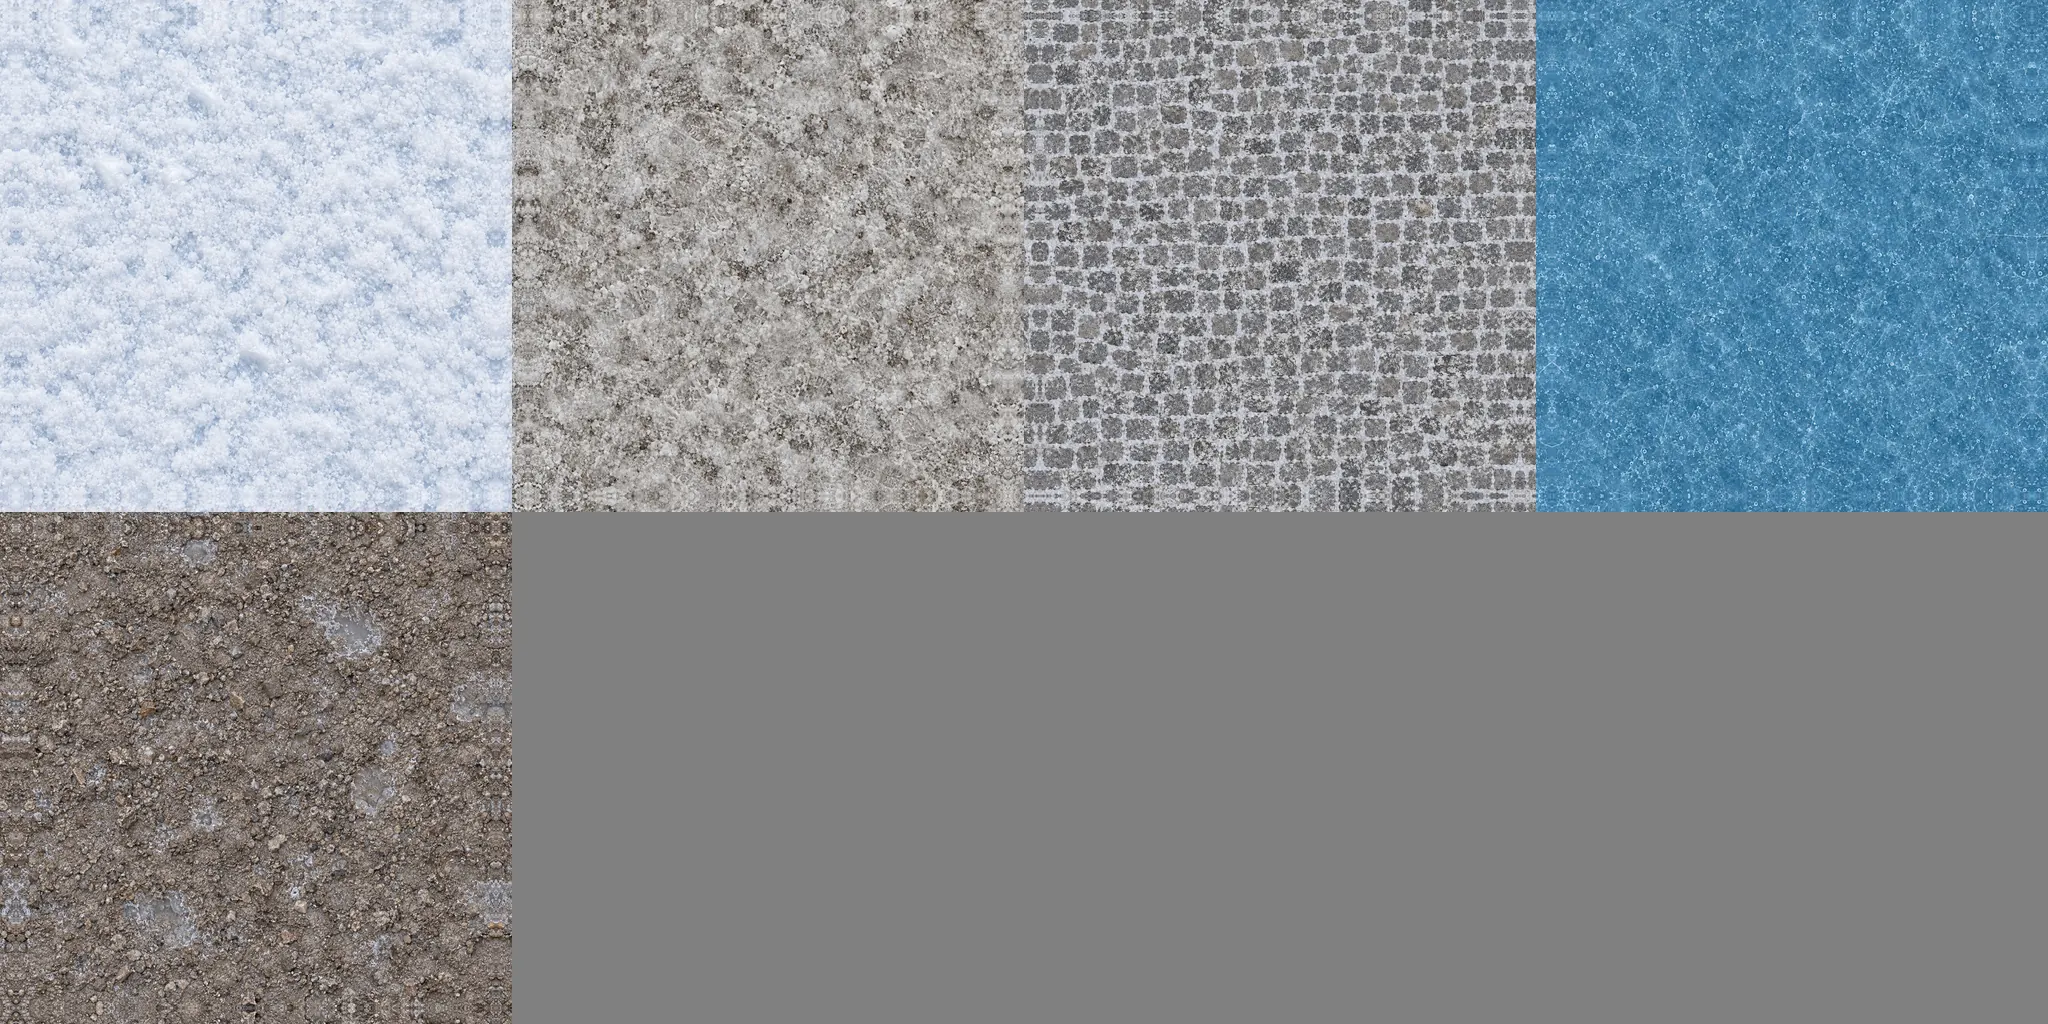
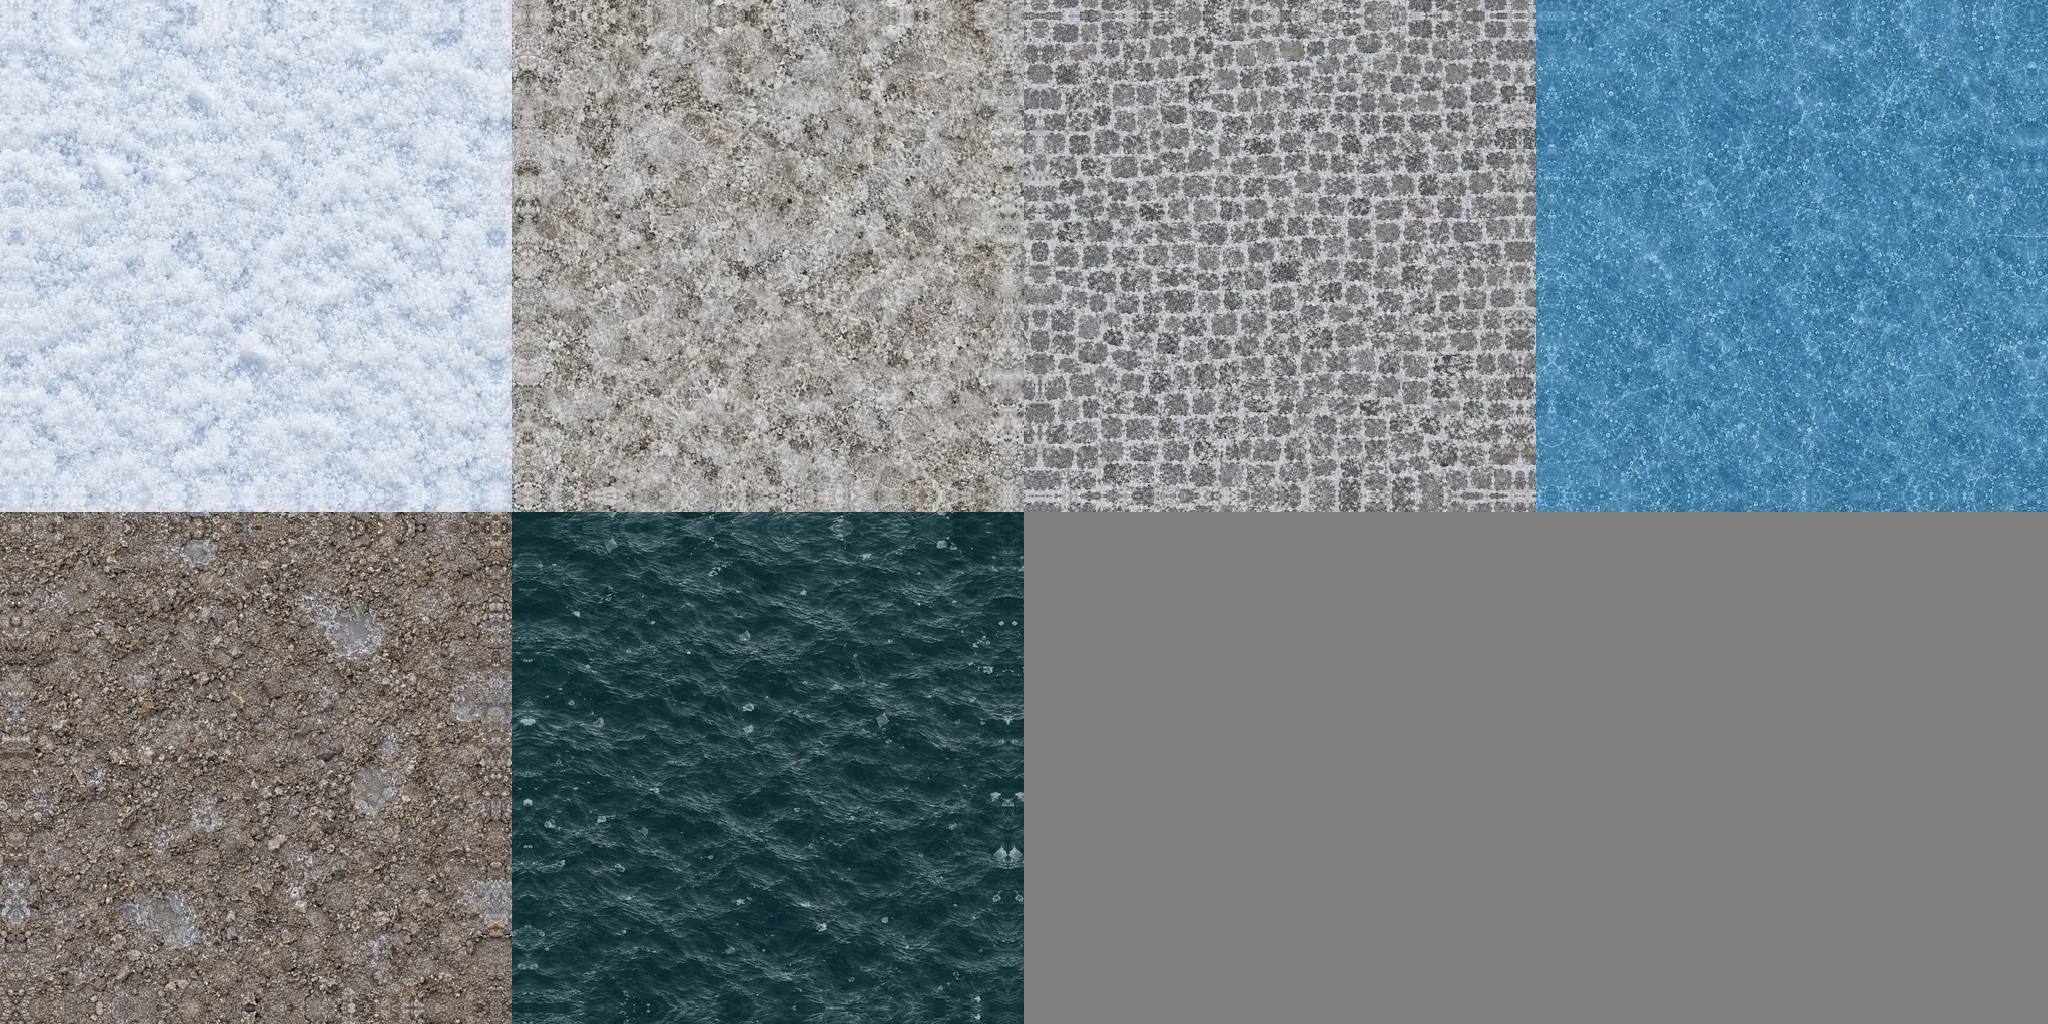
Painted winter water (ChatGPT tile in the ground atlas) with a ragged ice shore, no striped rim
The relief shader paints the water with the new agua slot of the albedo atlas instead of the flat palette blue,
pushes the shore with noise (ice ledge, wet seam) and the layer stops stroking the rim, foam ring and glint
diamonds over it. Card NEW-20261022-ORQ-agua-realista.

Changed region(s): [[0.25, 0.5, 0.5, 1.0]]

diff --git a/src/client/render/city/relevo/shader.ts b/src/client/render/city/relevo/shader.ts
@@ -25,20 +25,32 @@ const vec3=(c:number)=>`vec3(${[(c>>16)&255,(c>>8)&255,c&255].map(v=>(v/255).toF
  * tint (0: only its light and shade, 1: its full colour). The palette keeps the colour; the photo brings the detail.
  * Ice is the most saturated photo: its tint dominates (D-038 review of the delivery).
  */
-export const ALBEDO_CHROMA={neve:.5,'neve-pisada':.7,calcada:.6,gelo:.2,terra:.7} as const;
+export const ALBEDO_CHROMA={neve:.5,'neve-pisada':.7,calcada:.6,gelo:.2,terra:.7,agua:1} as const;
 /**
  * World units one photo spans (its mirrored pair twice that). Larger than life on purpose: at the game's camera a real
  * sett (~28 in a photo of ~2.8 m) is ~4 px and reads as grain; the paving and the ice are drawn ~3× life size.
  */
-export const ALBEDO_SPAN_UNITS={neve:4.4,'neve-pisada':4.4,calcada:6.6,gelo:6.6,terra:4.4} as const;
+export const ALBEDO_SPAN_UNITS={neve:4.4,'neve-pisada':4.4,calcada:6.6,gelo:6.6,terra:4.4,agua:6.6} as const;
 /** How strongly the photo's detail shows over the palette tone (0 none .. 1 all): the snows stay quiet under the figures. */
-export const ALBEDO_STRENGTH={neve:.55,'neve-pisada':.7,calcada:.9,gelo:.6,terra:.8} as const;
+export const ALBEDO_STRENGTH={neve:.55,'neve-pisada':.7,calcada:.9,gelo:.6,terra:.8,agua:1} as const;
 /** The albedo's detail never takes a tone further than this from its palette base (the palette's contrast rule). */
 export const ALBEDO_SPAN={lo:.72,hi:1.22} as const;
 const slot=(name:typeof ALBEDO_SLOTS[number])=>ALBEDO_SLOTS.indexOf(name).toFixed(1);
 const mean=(name:typeof ALBEDO_SLOTS[number])=>`vec3(${ALBEDO_MEANS[ALBEDO_SLOTS.indexOf(name)].map(v=>v.toFixed(4)).join(',')})`;
 const albedo=(name:typeof ALBEDO_SLOTS[number])=>
   `albedoDetail(${slot(name)},w,${mean(name)},${ALBEDO_CHROMA[name].toFixed(2)},${(1/ALBEDO_SPAN_UNITS[name]).toFixed(4)},${ALBEDO_STRENGTH[name].toFixed(2)})`;
+
+/**
+ * Water with the atlas (card NEW-20261022-ORQ-agua-realista): the painted tile in its own colours (chroma and strength
+ * 1, over its own mean instead of a palette tone: the flat palette blue is what read as a vector drawing), lifted a
+ * little so the open water is not a hole next to the snow.
+ */
+export const WATER_ART_LIFT=1.25;
+/**
+ * The shore (cover G, bilinear: 0.5 on the cell edge) is pushed in and out by noise, so the water's edge is ragged and
+ * not the cell grid: open water from WATER_EDGE.open, a ledge of shore ice from WATER_EDGE.shelf (snow side).
+ */
+export const WATER_EDGE={wobble:.34,shelf:.30,open:.47} as const;
 
 /** Coarse ray steps over the chunk's own height range; 7 bisections refine the hit below 0.1 px. */
 export const RELIEF_RAY_STEPS=48;
@@ -85,7 +97,7 @@ const vec3 SNOW=${vec3(CITY_PALETTE.neve)},SNOW_SUN=${vec3(MATERIALS['neve-tampa
 const vec3 PACKED=${vec3(CITY_PALETTE['neve-pisada'])},PACKED_DETAIL=${vec3(CITY_PALETTE['neve-pisada-detalhe'])};
 const vec3 COBBLE=${vec3(CITY_PALETTE.calcada)},COBBLE_JOINT=${vec3(CITY_PALETTE['calcada-junta'])};
 const vec3 ICE=${vec3(CITY_PALETTE.gelo)},ICE_DETAIL=${vec3(CITY_PALETTE['gelo-detalhe'])},ICE_GLINT=${vec3(CITY_PALETTE['gelo-brilho'])};
-const vec3 WATER=${vec3(CITY_PALETTE.agua)},WATER_SHALLOW=${vec3(CITY_PALETTE['agua-raso'])};
+const vec3 WATER=${vec3(CITY_PALETTE.agua)},WATER_SHALLOW=${vec3(CITY_PALETTE['agua-raso'])},WATER_ART=${mean('agua')}*${WATER_ART_LIFT.toFixed(2)};
 const vec3 RUBBLE=${vec3(CITY_PALETTE['entulho-chao'])},RUBBLE_DETAIL=${vec3(CITY_PALETTE['entulho-chao-detalhe'])};
 const vec3 CLIFF_LIGHT=${vec3(CITY_PALETTE['penhasco-clara'])},CLIFF_DARK=${vec3(CITY_PALETTE['penhasco-escura'])},CLIFF_CAP=${vec3(CITY_PALETTE['penhasco-tampa'])};
 const vec3 ROCK_SUN=${vec3(MATERIALS.pedra.luz)},ROCK=${vec3(MATERIALS.pedra.clara)},ROCK_SHADE=${vec3(MATERIALS.pedra.escura)};
@@ -234,9 +246,19 @@ void main(){
  color=mix(color,mix(CLIFF_CAP,SNOW_SUN,0.5),cliff*(1.0-flank)*0.5);
  color=mix(color,cliffRock,flank*(1.0-smoothstep(0.7,0.85,fine+grain*0.3)*0.5));
 
- // Water (fountain, lake): deep blue, shallow at its edge. The layer's decor still draws its rim and glints.
- vec3 water=mix(WATER,WATER_SHALLOW,1.0-smoothstep(0.55,0.95,cv.g));
- color=mix(color,water,smoothstep(0.42,0.52,cv.g));
+ // Water (fountain, lake): the shore wobbles with the noise, so the edge is ragged and not the cell grid. Without the
+ // atlas: deep blue, shallow at its edge; with it, the painted water, a touch lighter and greener in the shallows.
+ float wm=cv.g+(fbm(w*0.9+vec2(5.1,1.7))-0.5)*${WATER_EDGE.wobble.toFixed(2)}+(fine-0.5)*0.05;
+ float shallow=1.0-smoothstep(${WATER_EDGE.open.toFixed(2)},0.85,wm);
+ vec3 water=mix(WATER,WATER_SHALLOW,shallow);
+ vec3 paint=WATER_ART*${albedo('agua')};
+ water=mix(water,mix(paint,mix(paint,ICE,0.35),shallow*0.6),albedoOn);
+ // Shore ice: a thin ledge between the ground and the open water, lit like the snow; a wet dark seam at its lip (the
+ // layer's decor no longer draws the striped rim over the relief, decor.ts groundDecor waterDecor).
+ vec3 shelf=mix(ice,SNOW_SUN,0.5)*mix(1.0,0.9,smoothstep(0.55,0.75,grain));
+ color=mix(color,shelf,smoothstep(${WATER_EDGE.shelf.toFixed(2)},${(WATER_EDGE.shelf+0.06).toFixed(2)},wm));
+ float open=smoothstep(${WATER_EDGE.open.toFixed(2)},${(WATER_EDGE.open+0.05).toFixed(2)},wm);
+ color=mix(color,water*mix(0.8,1.0,smoothstep(${(WATER_EDGE.open+0.02).toFixed(2)},${(WATER_EDGE.open+0.10).toFixed(2)},wm)),open);
 
  gl_FragColor=vec4(clamp(lightGrade(color),0.0,1.0),1.0); // lighting card: warm/cool grade, baked (identity with ?luz=0)
 }`;

diff --git a/tests/client/agua-realista.test.ts b/tests/client/agua-realista.test.ts
@@ -1,0 +1,40 @@
+// Card NEW-20261022-ORQ-agua-realista: the water is the painted tile of the albedo atlas (not the flat palette blue), with
+// a ragged shore of ice drawn by the relief shader, and the layer no longer strokes the striped rim, foam ring and
+// diamond glints over it; the flat ground (no relief: Canvas, ?relevo=0) keeps them.
+import test from 'node:test';
+import assert from 'node:assert/strict';
+import {readFileSync} from 'node:fs';
+import {ALBEDO_MEANS,ALBEDO_SLOTS} from '../../src/client/render/city/relevo/albedo-meta.ts';
+import {WATER_ART_LIFT,WATER_EDGE,reliefShader} from '../../src/client/render/city/relevo/shader.ts';
+import {groundDecor} from '../../src/client/render/city/decor.ts';
+import {groundAt,parseCityAsset} from '../../src/client/render/city/asset.ts';
+import {makeSampleCity} from '../../src/client/render/city/sample.ts';
+
+test('the water slot is a dark, cold blue-green paint (not the bright palette blue) and the shader reads it',()=>{
+  const m=ALBEDO_MEANS[ALBEDO_SLOTS.indexOf('agua')];
+  assert.ok(m,'agua slot');
+  const [r,g,b]=m.map(v=>v*WATER_ART_LIFT);
+  assert.ok(b>r&&g>r,'cold: blue and green over red');
+  assert.ok(Math.max(r,g,b)<0.5,'darker than the palette agua #3F8EC0');
+  assert.ok(reliefShader.includes(`albedoDetail(${ALBEDO_SLOTS.indexOf('agua').toFixed(1)},w,`));
+  assert.ok(reliefShader.includes('water=mix(water,mix(paint,'),'the paint replaces the flat blue once the atlas is in');
+});
+
+test('the shore wobbles with noise (not the cell grid): an ice ledge first, then the open water',()=>{
+  assert.ok(WATER_EDGE.shelf<WATER_EDGE.open&&WATER_EDGE.open<0.5,'the open water starts inside the shelf, before the cell edge');
+  assert.ok(WATER_EDGE.wobble>0.15&&WATER_EDGE.wobble<0.5);
+  assert.ok(reliefShader.includes('float wm=cv.g+(fbm('),'the cover mask is pushed by fbm');
+  assert.ok(reliefShader.includes('color=mix(color,shelf,'));
+});
+
+test('groundDecor draws the water rim/foam/glints only on the flat ground; the relief layer asks for none',()=>{
+  const asset=parseCityAsset(makeSampleCity());
+  const chunk={key:'all',cx:0,cy:0,x0:0,y0:0,x1:asset.width,y1:asset.height};
+  let water=0;for(let y=0;y<asset.height;y++)for(let x=0;x<asset.width;x++)if(groundAt(asset,x,y)==='water')water++;
+  assert.ok(water>0,'the sample city has its fountain');
+  const flat=groundDecor(chunk as never,asset,0),relief=groundDecor(chunk as never,asset,0,undefined,false);
+  assert.ok(flat.length>relief.length,'the water decor is gone without the rim');
+  assert.ok(!relief.some(p=>p.shimmer),'no glint diamonds over the painted water');
+  const layer=readFileSync(new URL('../../src/client/render/city/city-layer.ts',import.meta.url),'utf8');
+  assert.equal(layer.match(/groundDecor\([^;]*!this\.relief\)/g)?.length,3,'every groundDecor call of the layer');
+});

diff --git a/src/client/render/city/decor.ts b/src/client/render/city/decor.ts
@@ -153,8 +153,13 @@ function rubbleGround(out:DecorPrim[],at:At,r:()=>number,speckRange:readonly [nu
   specks(out,at,r,speckRange,C['entulho-chao-detalhe']);
 }
 
-/** Fountain water (bible §8.7): shallow tone, ice rim and foam ring on edges that touch non-water; glint picked per chunk. */
-function water(out:DecorPrim[],asset:CityAsset,cx:number,cy:number,at:At,glint:boolean){
+/**
+ * Fountain water (bible §8.7): shallow tone, ice rim and foam ring on edges that touch non-water; glint picked per chunk.
+ * Without `withDecor` nothing: the relief shader paints the water and a ragged shore itself (card agua-realista), and the
+ * drawn rim, foam ring and diamond glints over the painted water read as a vector drawing.
+ */
+function water(out:DecorPrim[],asset:CityAsset,cx:number,cy:number,at:At,glint:boolean,withDecor:boolean){
+  if(!withDecor)return;
   const rim=(e:Edge)=>groundAt(asset,cx+NEIGHBOUR[e][0],cy+NEIGHBOUR[e][1])!=='water';
   const edges=(['n','e','s','w'] as const).filter(rim),band=(e:Edge,d0:number,d1:number)=>[onEdge(e,0,d0),onEdge(e,1,d0),onEdge(e,1,d1),onEdge(e,0,d1)].map(([u,v])=>at(u,v));
   for(const e of edges)out.push(poly(C['agua-raso'],band(e,0,0.36)));
@@ -175,7 +180,7 @@ function water(out:DecorPrim[],asset:CityAsset,cx:number,cy:number,at:At,glint:b
  * Ground decoration of a chunk, cell by cell in the back-to-front order of groundQuads. Every primitive stays inside
  * its cell's quad; street ruts end exactly on the cell edge where the next packed cell's ruts start.
  */
-export function groundDecor(chunk:CityChunk,asset:CityAsset,view:number,pivot:Pt=VIEW_PIVOT):DecorPrim[]{
+export function groundDecor(chunk:CityChunk,asset:CityAsset,view:number,pivot:Pt=VIEW_PIVOT,waterDecor=true):DecorPrim[]{
   const v=normalizeView(view),out:DecorPrim[]=[],glints=new Set<string>();
   // Glints are chosen in world row-major order, so the cap picks the same cells in every view.
   for(let cy=chunk.y0;cy<chunk.y1&&glints.size<GLINT.perChunk;cy++)for(let cx=chunk.x0;cx<chunk.x1&&glints.size<GLINT.perChunk;cx++)
@@ -189,7 +194,7 @@ export function groundDecor(chunk:CityChunk,asset:CityAsset,view:number,pivot:Pt
       case 'cobble':cobble(out,q.cy,at,r);break;
       case 'ice':ice(out,at,r);break;
       case 'rubble':rubbleGround(out,at,r,rubble);break;
-      case 'water':water(out,asset,q.cx,q.cy,at,glints.has(`${q.cx},${q.cy}`));break;
+      case 'water':water(out,asset,q.cx,q.cy,at,glints.has(`${q.cx},${q.cy}`),waterDecor);break;
     }
   }
   return out;

diff --git a/src/client/render/city/city-layer.ts b/src/client/render/city/city-layer.ts
@@ -681,8 +681,8 @@ export class CityLayer {
     const decor:DecorPrim[]=[];
     const bare=(cx:number,cy:number)=>!!this.cliffs?.[cy*asset.width+cx];
     for(const q of quads)if(!own(q)&&this.materials.decorOver(q.kind)&&!bare(q.cx,q.cy))
-      for(const p of groundDecor({...chunk,x0:q.cx,y0:q.cy,x1:q.cx+1,y1:q.cy+1},asset,view,pivot))if(!p.shimmer)decor.push(p);
-    decor.push(...(painted.size||this.cliffs?this.decorOverFlat(chunk,view,quads.filter(own)):groundDecor(chunk,asset,view,pivot)));
+      for(const p of groundDecor({...chunk,x0:q.cx,y0:q.cy,x1:q.cx+1,y1:q.cy+1},asset,view,pivot,!this.relief))if(!p.shimmer)decor.push(p);
+    decor.push(...(painted.size||this.cliffs?this.decorOverFlat(chunk,view,quads.filter(own)):groundDecor(chunk,asset,view,pivot,!this.relief)));
     // Shadows of this chunk's and its neighbours' columns that land here, as one disjoint union (no stacking).
     const casters:BlockPiece[]=[];
     // A mound (moundOf) casts its own low shadow, not the building's.
@@ -751,7 +751,7 @@ export class CityLayer {
     for(let cy=chunk.y0;cy<chunk.y1;cy++)for(let cx=chunk.x0;cx<chunk.x1;cx++){
       const kind=groundAt(this.asset,cx,cy);
       if(!this.materials.decorOver(kind)||this.cliffs?.[cy*this.asset.width+cx])continue;
-      let prims=groundDecor({...chunk,x0:cx,y0:cy,x1:cx+1,y1:cy+1},this.asset,view,this.pivot);
+      let prims=groundDecor({...chunk,x0:cx,y0:cy,x1:cx+1,y1:cy+1},this.asset,view,this.pivot,!this.relief);
       if(prims.some(p=>p.shimmer)){
         if(glintCells>=GLINT.perChunk)prims=prims.filter(p=>!p.shimmer);
         else glintCells++;

diff --git a/src/client/render/city/relevo/albedo-meta.ts b/src/client/render/city/relevo/albedo-meta.ts
@@ -1,7 +1,7 @@
 // Generated by scripts/chao-albedo.mjs from viagem-board/arte-entrada/chao (do not edit by hand).
 /** The ground albedo atlas (card NEW-20261014-ORQ-chao-albedo-cidade): its URL, layout and each slot's mean colour. */
 export const ALBEDO_URL='/art/chao/cidade-albedo.webp';
-export const ALBEDO_SLOTS=["neve","neve-pisada","calcada","gelo","terra"] as const;
+export const ALBEDO_SLOTS=["neve","neve-pisada","calcada","gelo","terra","agua"] as const;
 export const ALBEDO_GRID={cols:4,rows:2,tile:512,pad:16} as const;
 /** Mean colour (0..1 RGB) of each slot's material, in ALBEDO_SLOTS order. */
-export const ALBEDO_MEANS:readonly (readonly [number,number,number])[]=[[0.8157,0.8475,0.9024],[0.6353,0.6199,0.6083],[0.5757,0.5755,0.588],[0.3014,0.53,0.676],[0.4782,0.4395,0.4175]];
+export const ALBEDO_MEANS:readonly (readonly [number,number,number])[]=[[0.8157,0.8475,0.9024],[0.6353,0.6199,0.6083],[0.5757,0.5755,0.588],[0.3014,0.53,0.676],[0.4782,0.4395,0.4175],[0.1441,0.2506,0.2738]];

diff --git a/tests/client/chao-albedo.test.ts b/tests/client/chao-albedo.test.ts
@@ -12,8 +12,8 @@ import {matchAssets} from '../../src/client/preload/match-assets.ts';
 
 const file=new URL(`../../public${ALBEDO_URL}`,import.meta.url);
 
-test('the atlas: 5 materials in a power-of-two WebP under /art (Service Worker cache, out of lite/), each slot padded',async()=>{
-  assert.deepEqual([...ALBEDO_SLOTS],['neve','neve-pisada','calcada','gelo','terra'],'asfalto delivered but no ground kind is asphalt');
+test('the atlas: 6 materials in a power-of-two WebP under /art (Service Worker cache, out of lite/), each slot padded',async()=>{
+  assert.deepEqual([...ALBEDO_SLOTS],['neve','neve-pisada','calcada','gelo','terra','agua'],'asfalto delivered but no ground kind is asphalt');
   assert.match(ALBEDO_URL,/^\/art\/chao\/[a-z-]+\.webp$/,'not under /art/lite/: the scene fallback would ask for an original that does not exist');
   assert.ok(existsSync(file),ALBEDO_URL);
   const m=await sharp(fileURLToPath(file)).metadata();
